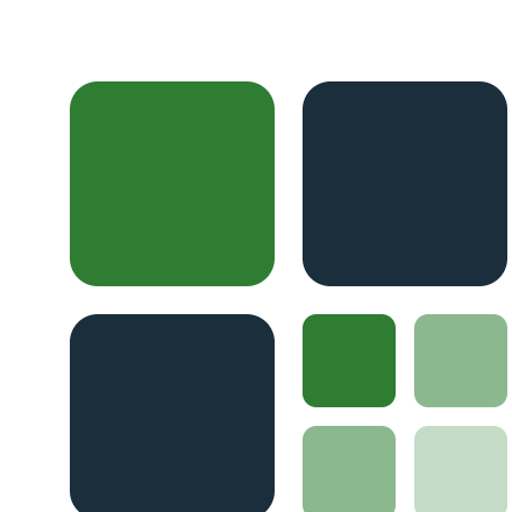
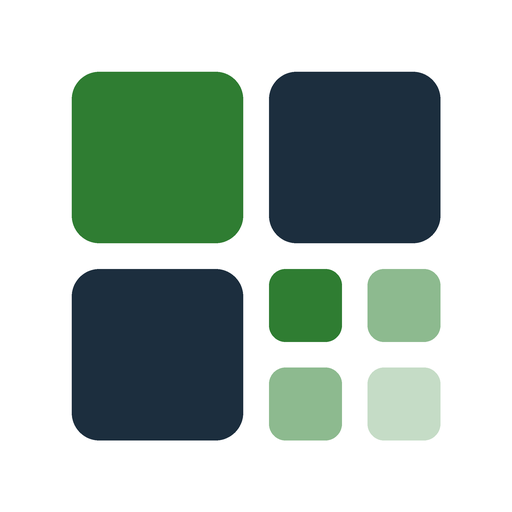
Préparation Android (Play Store) : mode application sans achat intégré, suppression de compte, politique de confidentialité, assetlinks, nouvelles icônes
Claude-Session: https://claude.ai/code/session_016ie1hHMXSn6Hnv82yidJcD

diff --git a/public/app.js b/public/app.js
@@ -56,6 +56,11 @@ const can = (role) => S.me && RANK[S.me.role] >= RANK[role];
 
 /* ================= État ================= */
 const S = { lang: store.get("uilang", "fr"), me: null, payments: "test", methods: ["mpesa", "airtel", "orange", "card"], catalog: null, pricing: null, filter: "Tous", cart: store.get("cart", []), payMethod: "mpesa" };
+// Application Android (Play Store) : l'application est lancée avec ?app=android. Google Play impose son propre
+// système de paiement pour les achats dans l'application : dans ce mode, on n'affiche ni prix ni achat.
+// Les abonnements se prennent sur le site web et s'appliquent automatiquement au compte.
+const APP = (() => { let a = null; try { a = new URLSearchParams(location.search).get("app") || sessionStorage.getItem("nx-app") || (document.referrer.startsWith("android-app://") ? "android" : null); if (a) sessionStorage.setItem("nx-app", a); } catch {} return a === "android" ? "android" : null; })();
+if (APP) document.documentElement.dataset.app = APP;
 const priceFor = (n, p = S.pricing) => { if (!p || n <= 0) return 0; const t = p.tiers; return n <= t.length ? t[n - 1] : t[t.length - 1] + (n - t.length) * p.extra; };
 
 /* ================= Voix (synthèse de l'appareil, en secours) ================= */
@@ -163,7 +168,7 @@ function paintPlayer() {
 function tabs() {
   const t = [["#/", "Accueil", "home"], ["#/cours", "Cours", "cat"]];
   if (S.me) t.push(["#/parcours", "Mon parcours", "me"]);
-  t.push(["#/abonnements", "Abonnements", "pass"]);
+  if (!APP) t.push(["#/abonnements", "Abonnements", "pass"]);
   if (can("creator")) t.push(["#/studio", "Studio", "studio"]);
   if (can("admin")) t.push(["#/admin", "Admin", "admin"]);
   return t;
@@ -184,7 +189,7 @@ const routes = [
   [/^#\/parcours$/, vDash, "auth"], [/^#\/abonnements$/, vSubs], [/^#\/connexion$/, vLogin], [/^#\/inscription$/, vRegister],
   [/^#\/reinitialiser\/([\w-]+)$/, vReset], [/^#\/recuperation$/, vRecover], [/^#\/studio$/, vStudio, "creator"], [/^#\/studio\/(\d+)$/, vStudioCourse, "creator"],
   [/^#\/admin$/, vAdmin, "admin"],
-  [/^#\/test-niveau\/([\w-]+)$/, vPlacement], [/^#\/bienvenue$/, vWelcome, "auth"], [/^#\/certificat\/([\w-]+)$/, vCertificate], [/^#\/revision$/, vReview, "auth"], [/^#\/suggestions$/, vSuggestions], [/^#\/grammaire$/, () => vGrammar("anglais")], [/^#\/lexique(?:\/([\w-]+))?$/, (k) => vLexicon("anglais", k)], [/^#\/examen\/([\w-]+)\/(\w+)$/, vExam, "auth"], [/^#\/cadeau(?:\/([\w-]+))?$/, vGift], [/^#\/mot-de-passe-oublie$/, vForgot],
+  [/^#\/test-niveau\/([\w-]+)$/, vPlacement], [/^#\/bienvenue$/, vWelcome, "auth"], [/^#\/certificat\/([\w-]+)$/, vCertificate], [/^#\/revision$/, vReview, "auth"], [/^#\/suggestions$/, vSuggestions], [/^#\/grammaire$/, () => vGrammar("anglais")], [/^#\/lexique(?:\/([\w-]+))?$/, (k) => vLexicon("anglais", k)], [/^#\/examen\/([\w-]+)\/(\w+)$/, vExam, "auth"], [/^#\/cadeau(?:\/([\w-]+))?$/, vGift], [/^#\/mot-de-passe-oublie$/, vForgot], [/^#\/supprimer-compte$/, vDeleteAccount],
 ];
 function parseHash() { const h = location.hash || "#/"; const [p, q] = h.split("?"); return { path: p, query: new URLSearchParams(q || "") }; }
 let renderId = 0;
@@ -195,6 +200,7 @@ async function render() {
   if (path !== "#/abonnements") S.gift = false;
   paintNav(); paintPlayer();
   const app = $("#app");
+  if (APP && (path === "#/abonnements" || path.startsWith("#/cadeau"))) { location.hash = "#/cours"; return; }
   const r = routes.find(([re]) => re.test(path));
   if (!r) { app.innerHTML = `<div class="empty"><h2>Page introuvable</h2><p style="margin-top:8px"><a href="#/">Retour à l’accueil</a></p></div>`; return; }
   if (r[2] && !S.me) { location.hash = `#/connexion?next=${encodeURIComponent(path)}`; return; }
@@ -216,7 +222,7 @@ async function render() {
     app.innerHTML = `<div class="empty"><p><b>${esc(e.message)}</b></p><p style="margin-top:12px"><button class="btn btn-ghost btn-sm" data-reload>Réessayer</button></p></div>`;
   }
 }
-const footer = () => `<footer><div class="wrap" style="padding:0"><span><b style="color:var(--ink)">NEXOMIA</b> · Former · Créer · Transformer · Lubumbashi, RDC</span><span style="display:flex;gap:16px;flex-wrap:wrap"><a href="#/abonnements?offrir=1">Offrir un abonnement</a><a href="#/cadeau">J’ai un code cadeau</a><a href="#/suggestions">Boîte à suggestions</a></span><span>Paiements : M-Pesa · Airtel Money · Orange Money${S.methods.includes("card") ? " · Carte" : ""}</span></div></footer>`;
+const footer = () => `<footer><div class="wrap" style="padding:0"><span><b style="color:var(--ink)">NEXOMIA</b> · Former · Créer · Transformer · Lubumbashi, RDC</span><span style="display:flex;gap:16px;flex-wrap:wrap"><a href="#/abonnements?offrir=1">Offrir un abonnement</a><a href="#/cadeau">J’ai un code cadeau</a><a href="#/suggestions">Boîte à suggestions</a></span><span class="app-hide">Paiements : M-Pesa · Airtel Money · Orange Money${S.methods.includes("card") ? " · Carte" : ""}</span></div></footer>`;
 
 async function loadCatalog(force) { if (!S.catalog || force) { const d = await api("/api/catalog"); S.catalog = d.courses; S.pricing = d.pricing; } return S.catalog; }
 
@@ -380,6 +386,15 @@ async function vLesson(id) {
   let d;
   try { d = await api(`/api/lessons/${id}`); }
   catch (e) {
+    if (e.status === 402 && APP) {
+      stopPlay(); const x = e.data;
+      return `<a class="back" href="#/cours/${esc(x.course.slug)}">${I.back} ${esc(x.course.title)}</a>
+      <div class="lesson-head"><p class="eyebrow">${esc(x.course.code)} · Leçon ${x.position} sur ${x.lessons.length}</p><h1>${esc(x.lesson.title)}</h1></div>
+      <div class="lock" style="max-width:620px">${motif()}
+        <h2 style="font-size:28px">Cette leçon fait partie de l’abonnement</h2>
+        <p class="muted" style="margin:10px auto 0;max-width:44ch">La première leçon de chaque cours est gratuite. Si ton compte NEXOMIA Academy a un abonnement actif, toutes les leçons s’ouvrent ici automatiquement.</p>
+        ${S.me ? `<p class="muted" style="margin-top:14px;font-size:14px">Connecté en tant que ${esc(S.me.email)}.</p>` : `<a class="btn btn-primary" style="margin-top:16px" href="#/connexion?next=${encodeURIComponent("#/lecon/" + id)}">Me connecter</a>`}</div>`;
+    }
     if (e.status === 402) {
       stopPlay(); const x = e.data;
       return `<a class="back" href="#/cours/${esc(x.course.slug)}">${I.back} ${esc(x.course.title)}</a>
@@ -690,6 +705,20 @@ function giftShareUrl(code, to) {
   const t = `${to ? to + ", j" : "J"}e t’offre un mois de cours sur NEXOMIA Academy 🎁\n\n1. Ouvre ce lien : ${giftLink(code)}\n2. Crée ton compte gratuit\n3. Active ton cadeau (code ${code})\n\nBon apprentissage !`;
   return "https://wa.me/?text=" + encodeURIComponent(t);
 }
+async function vDeleteAccount() {
+  const head = `<div class="auth-wrap" style="max-width:620px;margin:0 auto"><h1 style="font-size:clamp(30px,4vw,42px)">Supprimer mon compte</h1>
+    <p class="muted" style="margin-top:10px">La suppression est définitive. Elle efface ton nom, ton adresse e-mail, ton téléphone, ta progression, tes points, tes certificats, tes commentaires et tes avis. Les paiements déjà faits restent enregistrés sans tes coordonnées, pour la comptabilité de NEXOMIA SARL. Un abonnement en cours n’est pas remboursé.</p>`;
+  if (!S.me) return head + `<p style="margin-top:16px">Connecte-toi pour supprimer ton compte toi-même, ou écris à <b>headoffice@nexomia360.com</b> depuis l’adresse de ton compte : nous le supprimons sous 7 jours.</p>
+    <a class="btn btn-primary" style="margin-top:16px" href="#/connexion?next=${encodeURIComponent("#/supprimer-compte")}">Me connecter</a></div>`;
+  return head + `<form id="deleteForm" class="card" style="margin-top:20px;display:grid;gap:14px">
+      <p>Compte : <b>${esc(S.me.email)}</b></p>
+      <div class="field"><label for="del-pw">Mot de passe, pour confirmer</label><input id="del-pw" type="password" autocomplete="current-password" required></div>
+      <label style="display:flex;gap:10px;align-items:flex-start"><input id="del-ok" type="checkbox" required style="margin-top:4px"><span>Je comprends que mon compte et ma progression seront supprimés définitivement.</span></label>
+      <p id="formErr" class="err" role="alert"></p>
+      <button class="btn btn-primary" style="background:var(--bad);border-color:var(--bad)">Supprimer définitivement mon compte</button>
+    </form></div>`;
+}
+
 async function vGift(code) {
   if (!code) return `<div class="auth"><p class="eyebrow">Abonnement offert</p><h1>Active ton cadeau</h1><p class="muted">Saisis le code reçu (par exemple NX-CADEAU-AB12-CD34).</p>
     <form class="card" id="giftLookup"><div class="field"><label for="gc-in">Code cadeau</label><input id="gc-in" required autocapitalize="characters" autocomplete="off" placeholder="NX-CADEAU-…" style="text-transform:uppercase;font-family:var(--f-mono)"></div>
@@ -1008,6 +1037,9 @@ async function vDash() {
     <div class="card"><h3 style="font-size:20px">Mes e-mails</h3>
       <label class="switch"><input type="checkbox" data-emailprog ${S.me.email_progress ? "checked" : ""}><span class="sw" aria-hidden="true"></span><span>Recevoir mon bilan de progression chaque lundi</span></label>
       <p class="muted" style="font-size:13px;margin-top:8px">Envoyé à ${esc(S.me.email)}. Les e-mails importants (certificat, mot de passe) restent envoyés.</p></div>
+    <div class="card"><h3 style="font-size:20px">Mon compte</h3>
+      <p class="muted" style="font-size:15px;margin-top:6px">Tes données servent uniquement à suivre ta progression. <a href="/confidentialite.html">Politique de confidentialité</a></p>
+      <a class="btn btn-ghost btn-sm" style="margin-top:12px" href="#/supprimer-compte">Supprimer mon compte</a></div>
   </div></div>`;
 }
 
@@ -1486,6 +1518,7 @@ document.addEventListener("submit", async (e) => {
   const err = (m) => { const el = f.querySelector("#formErr") || $("#formErr"); if (el) el.textContent = m; else toast(m, true); };
   const btn = f.querySelector("button:not([type=button])"); if (btn) btn.disabled = true;
   try {
+    if (f.id === "deleteForm") { if (!$("#del-ok").checked) throw new Error("Coche la case pour confirmer."); await api("/api/me/delete", { method: "POST", body: { password: $("#del-pw").value } }); S.me = null; S.catalog = null; toast("Ton compte a été supprimé"); location.hash = "#/"; return; }
     if (f.id === "loginForm") { const r = await api("/api/auth/login", { method: "POST", body: { email: $("#l-email").value, password: $("#l-pw").value } }); S.me = r.user; S.catalog = null; await sendPendingPlacement(); location.hash = f.dataset.next; }
     else if (f.id === "registerForm") { const r = await api("/api/auth/register", { method: "POST", body: { name: $("#r-name").value, email: $("#r-email").value, phone: $("#r-phone").value, password: $("#r-pw").value } }); S.me = r.user; S.catalog = null; await sendPendingPlacement(); toast("Bienvenue dans NEXOMIA Academy"); location.hash = f.dataset.next || "#/bienvenue"; }
     else if (f.id === "recoverForm") { await api("/api/auth/admin-recover", { method: "POST", body: { email: $("#rc-email").value, code: $("#rc-code").value, password: $("#rc-pw").value } }); await boot(true); toast("Mot de passe enregistré. Pense à supprimer ADMIN_RECOVERY_CODE dans Railway."); location.hash = "#/admin"; }

diff --git a/public/confidentialite.html b/public/confidentialite.html
@@ -1,0 +1,76 @@
+<!doctype html>
+<html lang="fr">
+<head>
+<meta charset="utf-8">
+<meta name="viewport" content="width=device-width, initial-scale=1">
+<title>Politique de confidentialité · NEXOMIA Academy</title>
+<meta name="description" content="Comment NEXOMIA Academy collecte, utilise et protège vos données.">
+<link rel="icon" href="/icon-192.png">
+<style>
+:root{--bg:#F3F6F2;--paper:#fff;--ink:#16232E;--muted:#56646E;--line:#D3DDD2;--green:#2F7D32}
+@media (prefers-color-scheme:dark){:root{--bg:#0E1820;--paper:#152430;--ink:#E8EFE9;--muted:#9DB0A6;--line:#2A3F4E;--green:#5DB063}}
+body{margin:0;background:var(--bg);color:var(--ink);font:17px/1.65 "Segoe UI",system-ui,sans-serif}
+main{max-width:760px;margin:0 auto;padding:40px 20px 80px}
+h1{font-size:clamp(28px,5vw,40px);line-height:1.15;margin:0 0 8px}
+h2{font-size:21px;margin:32px 0 8px}
+p,li{color:var(--ink)} .muted{color:var(--muted)}
+ul{padding-left:22px} li{margin:4px 0}
+a{color:var(--green)}
+.top{display:flex;gap:16px;justify-content:space-between;align-items:center;margin-bottom:28px}
+.top a{font-weight:700;text-decoration:none}
+</style>
+</head>
+<body>
+<main>
+  <div class="top"><a href="/">← NEXOMIA Academy</a><span class="muted">Mise à jour : 15 octobre 2026</span></div>
+  <h1>Politique de confidentialité</h1>
+  <p class="muted">NEXOMIA Academy (site academy.nexomia360.com et application Android) est éditée par NEXOMIA SARL, Lubumbashi, République démocratique du Congo. Contact : headoffice@nexomia360.com.</p>
+
+  <h2>Les données que nous collectons</h2>
+  <ul>
+    <li><b>Compte</b> : nom, adresse e-mail, numéro de téléphone (facultatif) et mot de passe. Le mot de passe est enregistré sous forme chiffrée ; personne chez NEXOMIA ne peut le lire.</li>
+    <li><b>Apprentissage</b> : leçons suivies, résultats aux exercices et examens, points, série de jours, objectif quotidien, résultat du test de niveau, certificats obtenus.</li>
+    <li><b>Contributions</b> : commentaires, avis sur les cours et suggestions que vous publiez.</li>
+    <li><b>Paiements</b> : numéro Mobile Money utilisé, opérateur, montant, date et référence du paiement. Nous ne recevons jamais votre code secret Mobile Money.</li>
+    <li><b>Données techniques</b> : un cookie de session pour vous garder connecté, et l’adresse IP de vos requêtes, utilisée pour la sécurité (limiter les tentatives de connexion).</li>
+  </ul>
+
+  <h2>Le micro</h2>
+  <p>L’exercice de prononciation utilise la reconnaissance vocale de votre navigateur (Google Chrome). Elle ne démarre que lorsque vous appuyez sur le bouton du micro. Le son est traité par le service de reconnaissance vocale du navigateur ; NEXOMIA ne reçoit et n’enregistre que le texte reconnu, pour vous indiquer les mots bien prononcés.</p>
+
+  <h2>Pourquoi nous les utilisons</h2>
+  <ul>
+    <li>Vous donner accès à vos cours et enregistrer votre progression.</li>
+    <li>Délivrer et permettre la vérification de vos certificats (nom, niveau et date apparaissent sur la page publique du certificat).</li>
+    <li>Encaisser vos abonnements et vous en donner l’historique.</li>
+    <li>Vous envoyer des e-mails : bienvenue, certificat, mot de passe oublié et bilan hebdomadaire de progression. Vous pouvez arrêter le bilan à tout moment depuis votre profil ou le lien en bas de chaque e-mail.</li>
+    <li>Afficher le classement hebdomadaire (prénom et points seulement).</li>
+  </ul>
+  <p>Nous ne vendons pas vos données, nous n’affichons pas de publicité et nous ne les utilisons pas pour du ciblage publicitaire.</p>
+
+  <h2>Avec qui elles sont partagées</h2>
+  <ul>
+    <li><b>pawaPay</b> : traitement des paiements Mobile Money (M-Pesa, Airtel Money, Orange Money).</li>
+    <li><b>Brevo</b> : envoi des e-mails.</li>
+    <li><b>Railway</b> : hébergement de l’application et de la base de données (serveurs situés en Europe).</li>
+    <li><b>ElevenLabs ou Google</b> : création des voix des leçons. Seuls les textes des leçons leur sont envoyés, jamais vos données.</li>
+  </ul>
+  <p>Ces prestataires n’utilisent vos données que pour fournir leur service à NEXOMIA. Les données circulent de façon chiffrée (HTTPS).</p>
+
+  <h2>Durée de conservation</h2>
+  <p>Vos données sont conservées tant que votre compte existe. Les enregistrements de paiement sont conservés pour la comptabilité de NEXOMIA SARL, sans vos coordonnées une fois le compte supprimé.</p>
+
+  <h2>Supprimer votre compte</h2>
+  <p>Vous pouvez supprimer votre compte vous-même dans l’application ou sur le site : <b>Mon parcours → Mon compte → Supprimer mon compte</b>, ou directement à l’adresse <a href="/#/supprimer-compte">academy.nexomia360.com/#/supprimer-compte</a>. Vous pouvez aussi écrire à headoffice@nexomia360.com depuis l’adresse de votre compte ; nous le supprimons sous 7 jours.</p>
+
+  <h2>Vos droits</h2>
+  <p>Vous pouvez demander à consulter, corriger ou supprimer vos données en écrivant à headoffice@nexomia360.com.</p>
+
+  <h2>Enfants</h2>
+  <p>NEXOMIA Academy s’adresse aux adolescents et aux adultes. Un enfant de moins de 13 ans ne doit l’utiliser qu’avec l’accord et sous la supervision d’un parent.</p>
+
+  <h2>Changements</h2>
+  <p>Si cette politique change, la date en haut de la page est mise à jour et les changements importants sont annoncés par e-mail.</p>
+</main>
+</body>
+</html>

diff --git a/server/routes.js b/server/routes.js
@@ -228,6 +228,41 @@ r.put("/api/me/profile", async (ctx) => {
   ok(ctx, { ok: true, daily_goal: goal, motive, ui_lang: lang, email_progress: !!ep });
 });
 
+// Lien entre l'application Android (Trusted Web Activity) et le site : Android vérifie ce fichier
+// pour afficher l'Academy en plein écran, sans barre d'adresse. Empreinte fournie par la Play Console.
+r.get("/.well-known/assetlinks.json", (ctx) => {
+  const pkg = process.env.ANDROID_PACKAGE || "com.nexomia360.academy";
+  const prints = String(process.env.ANDROID_SHA256 || "").split(",").map((x) => x.trim().toUpperCase()).filter(Boolean);
+  ok(ctx, prints.length ? [{ relation: ["delegate_permission/common.handle_all_urls"], target: { namespace: "android_app", package_name: pkg, sha256_cert_fingerprints: prints } }] : []);
+});
+
+// Suppression du compte (exigence Google Play) : l'apprenant confirme avec son mot de passe.
+// Les données d'apprentissage sont effacées ; les paiements restent (comptabilité) mais sans coordonnées.
+r.post("/api/me/delete", async (ctx) => {
+  A.requireUser(ctx);
+  const b = await readJson(ctx.req);
+  const u = one("SELECT * FROM users WHERE id = ?", ctx.user.id);
+  if (!A.verifyPassword(String(b.password || ""), u.pass_hash)) throw new HttpError(401, "Mot de passe incorrect.");
+  if (u.role === "admin" && (one("SELECT COUNT(*) AS n FROM users WHERE role = 'admin' AND suspended = 0") || {}).n <= 1) throw new HttpError(400, "Tu es le seul administrateur : nomme un autre administrateur avant de supprimer ce compte.");
+  tx(() => {
+    for (const { name } of all("SELECT name FROM sqlite_master WHERE type = 'table' AND name NOT LIKE 'sqlite_%'")) {
+      if (name === "users") continue;
+      for (const fk of all(`PRAGMA foreign_key_list("${name}")`)) {
+        if (fk.table !== "users") continue;
+        if (fk.on_delete === "CASCADE") run(`DELETE FROM "${name}" WHERE "${fk.from}" = ?`, u.id);
+        else if (fk.on_delete === "SET NULL") run(`UPDATE "${name}" SET "${fk.from}" = NULL WHERE "${fk.from}" = ?`, u.id);
+      }
+    }
+    run("DELETE FROM sessions WHERE user_id = ?", u.id);
+    run("UPDATE orders SET phone = NULL, gift_to = '', gift_msg = '' WHERE user_id = ?", u.id);
+    run("UPDATE users SET name = 'Compte supprimé', email = ?, phone = NULL, pass_hash = ?, suspended = 1, email_progress = 0, placement = '{}', motive = '' WHERE id = ?",
+      `supprime-${u.id}-${crypto.randomBytes(4).toString("hex")}@invalid`, crypto.randomBytes(32).toString("hex"), u.id);
+  });
+  audit(null, "user.deleted", { id: u.id });
+  A.destroySession(ctx.req, ctx.res, ctx.secure);
+  ok(ctx, { ok: true });
+});
+
 // Prononciation : quelques points par leçon et par jour quand l'apprenant s'entraîne au micro.
 r.post("/api/me/speak", async (ctx) => {
   A.requireUser(ctx);

diff --git a/public/app.css b/public/app.css
@@ -690,3 +690,6 @@ footer a{color:var(--muted);font-weight:700}
 .refitem summary b{min-width:0;overflow-wrap:anywhere}
 .tblwrap{max-width:100%;-webkit-overflow-scrolling:touch}
 .gt td,.gt th{white-space:nowrap}
+
+/* Application Android : pas de prix ni d'achat (règle de paiement Google Play) */
+html[data-app] a[href^="#/abonnements"], html[data-app] a[href^="#/cadeau"], html[data-app] [data-subscribe], html[data-app] .pricetag, html[data-app] .price, html[data-app] .app-hide{display:none!important}
